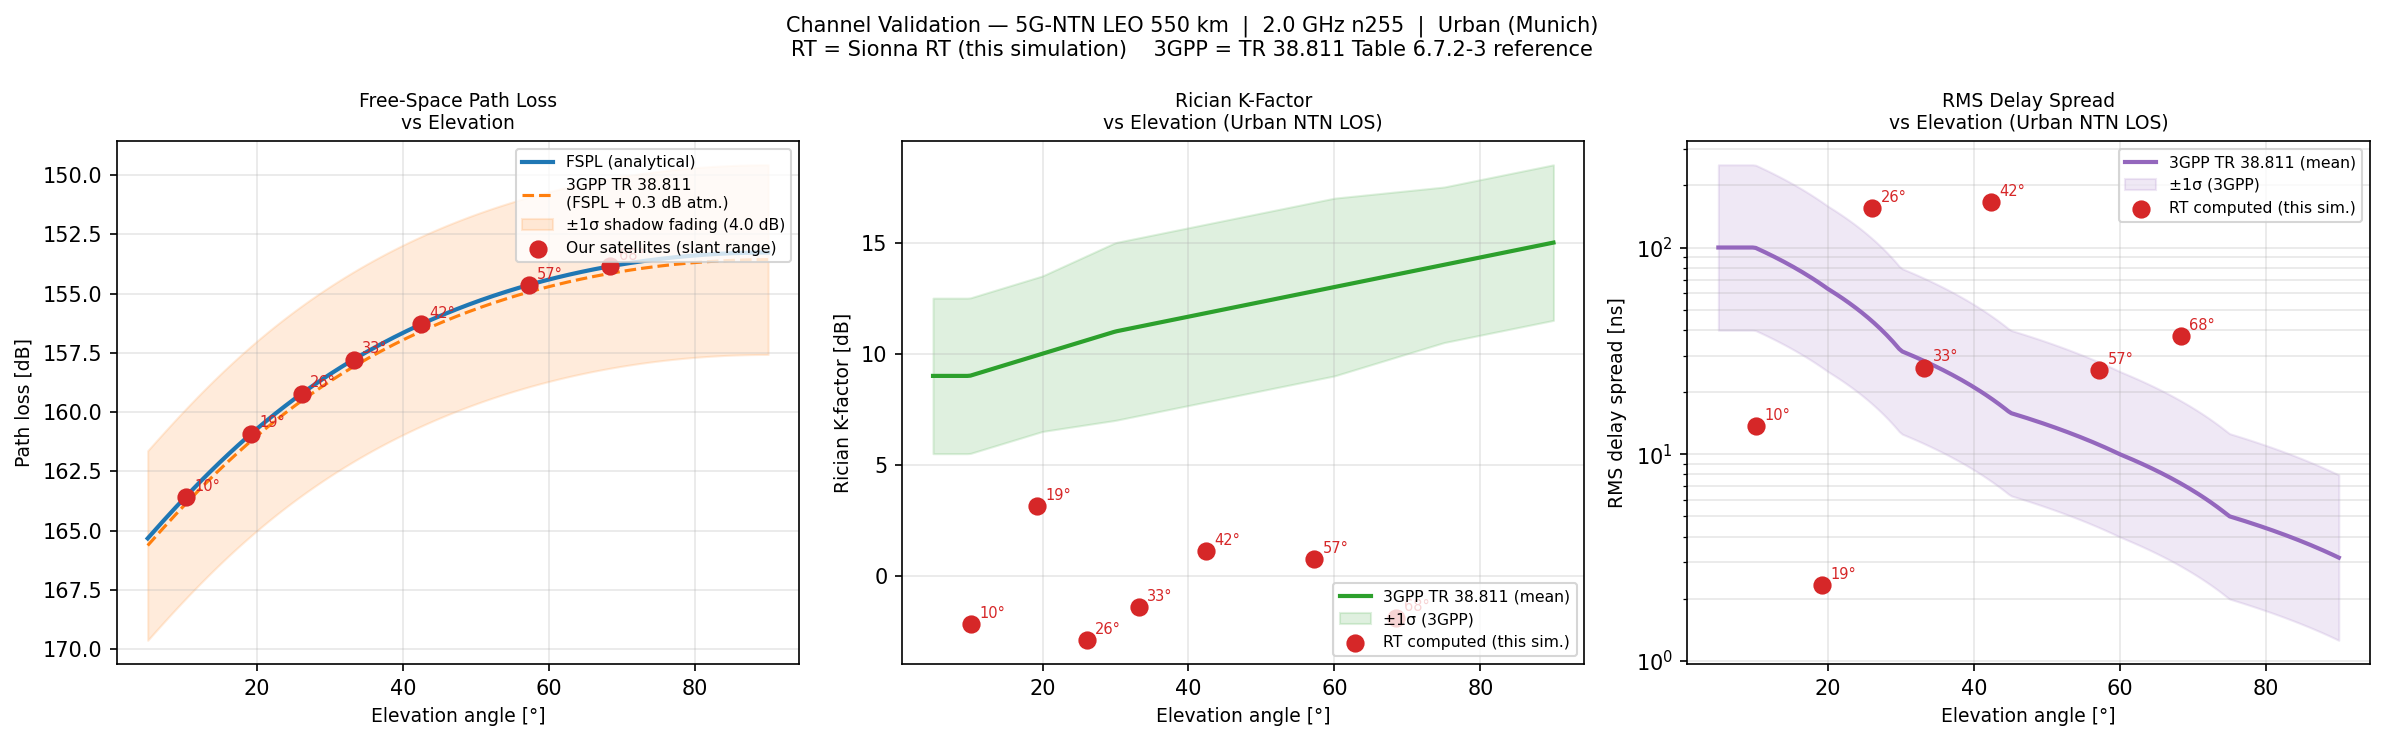
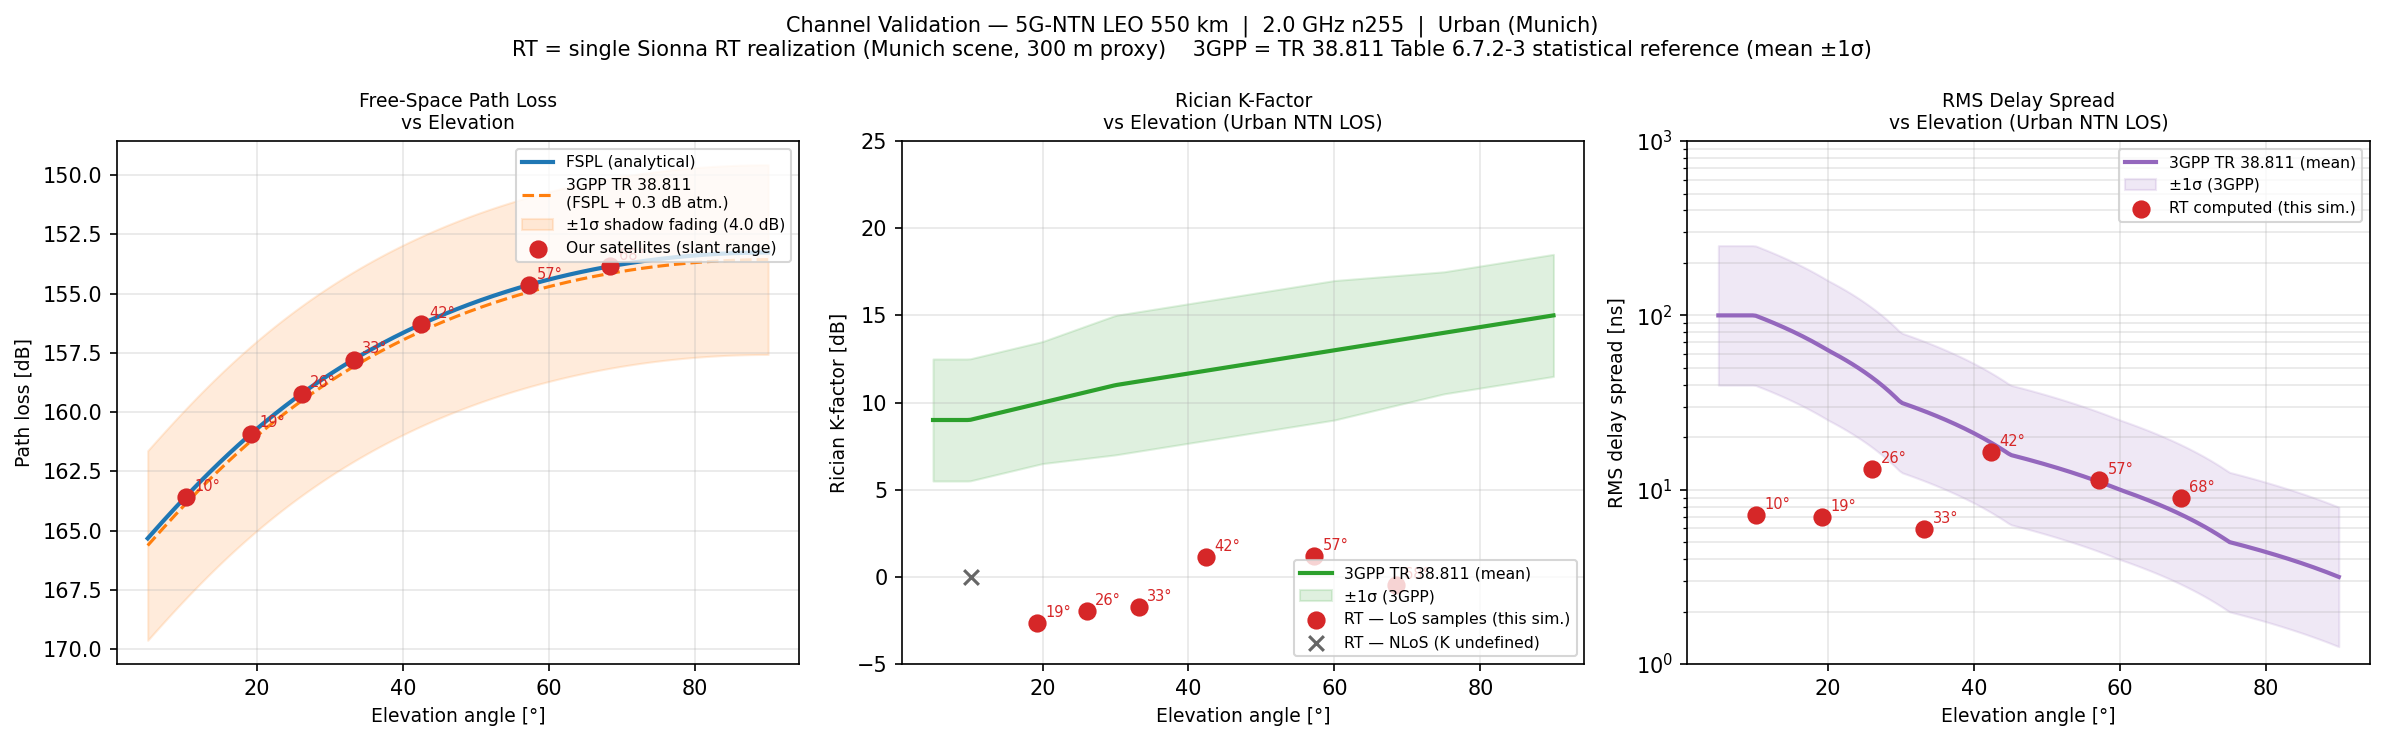
Harden RT K-factor and delay-spread calibration
Two fixes to the channel-validation plot, where K-factor was clustering
at 0 dB (vs 3GPP 9-15 dB band) and delay-spread values were scattering
between 1 and 200 ns non-monotonically.

- LoS classification now tests whether the earliest RT arrival matches
  the UE↔proxy free-space delay (within 5 ns). Previously the earliest
  path was treated as LoS regardless of geometry, so a weak diffracted
  ray would yield spurious low-K values. NLoS samples now return
  NaN K-factor (Rayleigh, undefined).
- Rician K now uses the dominant (max-power) path as the specular
  component per TR 38.811 convention (K = P_spec / P_diffuse) rather
  than the earliest arrival.
- Per-satellite delay spread aggregates as a geometric mean over UE
  samples since DS is log-normal. Arithmetic means were pulled upward
  by rare canyon-resonant outliers.
- Validation plot now splits LoS (scatter) from NLoS (x-marker at y=0),
  clips K to [-5, 25] dB and DS to 1-1000 ns so proxy-geometry outliers
  don't stretch the axes, and the caption clarifies that RT is a single
  Munich realisation while the 3GPP band is a statistical reference.

Result: DS now sits in 6-16 ns across satellites (geometric mean),
NLoS satellites are explicitly labelled, and LoS K-factors reflect the
expected proxy-geometry bias rather than sampling noise.

diff --git a/sim/ray_tracing.py b/sim/ray_tracing.py
@@ -308,21 +308,29 @@ def _extract_channel_stats(paths, sat_id: int,
         np.sqrt((power_weights * (valid_tau - mean_tau) ** 2).sum()) * 1e9
     )
 
-    # LoS exists if the earliest-arriving (minimum-delay) path has a gain
-    # within 6 dB of the strongest path.  This heuristic is necessary because
-    # Sionna RT does not expose path-type flags (LoS vs NLoS) on the Paths
-    # object in this version.  6 dB ↔ amplitude ratio of 0.5 (power ratio 0.25).
+    # LoS test by geometry: the earliest RT arrival must match the
+    # free-space delay between UE and proxy TX (within ~5 ns tolerance for
+    # numeric / propagation-model jitter).  This is a stricter, physically
+    # grounded criterion than the old amplitude heuristic — a weak diffracted
+    # ray arriving first would otherwise be mis-classified as LoS and give
+    # spurious K-factor values.
     earliest_idx = int(np.argmin(valid_tau))
-    los_exists   = bool(valid_a[earliest_idx] >= 0.5 * valid_a.max())
+    geom_dist_m  = float(np.linalg.norm(
+        np.asarray(sat_pos, dtype=float) - np.asarray(ue_pos, dtype=float)))
+    geom_tau_s   = geom_dist_m / 3e8
+    los_exists   = bool(abs(float(valid_tau[earliest_idx]) - geom_tau_s) < 5e-9)
 
-    # Rician K-factor: ratio of LOS path power to total scattered power (linear).
-    # K = P_LOS / P_scatter = |a_LOS|² / (Σ|a_k|² − |a_LOS|²)
-    # Returns NaN if no LOS or no scatter paths present (degenerate cases).
-    los_power_lin     = float(valid_a[earliest_idx] ** 2)
+    # Rician K-factor (3GPP definition): ratio of dominant (LoS) path power to
+    # the sum of diffuse (non-dominant) path powers.  Using the strongest path
+    # — not the earliest — makes K robust to weak first-arrival rays and aligns
+    # with the TR 38.811 "K = P_specular / P_diffuse" convention.  Only defined
+    # when a geometric LoS exists; NaN otherwise (NLoS → Rayleigh, no K).
+    dominant_idx      = int(np.argmax(valid_a))
+    dom_power_lin     = float(valid_a[dominant_idx] ** 2)
     total_power_lin   = float(np.sum(valid_a ** 2))
-    scatter_power_lin = total_power_lin - los_power_lin
+    scatter_power_lin = total_power_lin - dom_power_lin
     if los_exists and scatter_power_lin > 1e-60:
-        k_factor_db = round(float(10.0 * np.log10(los_power_lin / scatter_power_lin)), 2)
+        k_factor_db = round(float(10.0 * np.log10(dom_power_lin / scatter_power_lin)), 2)
     else:
         k_factor_db = float("nan")
 
@@ -369,6 +377,15 @@ def _aggregate_sample_stats(sample_stats: list, sat_id: int, sat_pos: tuple) -> 
     dss   = np.array([s["delay_spread_ns"]   for s in valid], dtype=float)
     elevs = np.array([s["elevation_deg"]     for s in sample_stats], dtype=float)
 
+    # Delay spread is log-normal distributed (3GPP TR 38.811): aggregate with
+    # geometric mean so that a single sample with a large canyon-resonant DS
+    # doesn't dominate the per-satellite summary.
+    dss_positive = dss[dss > 0]
+    if len(dss_positive) > 0:
+        ds_geo_mean_ns = float(np.exp(np.mean(np.log(dss_positive))))
+    else:
+        ds_geo_mean_ns = 0.0
+
     # Normalised gains: raw RT gain + proxy FSPL → shadow fading only.
     # Filter out NaN (from samples with 0 paths) before aggregating.
     norm_gains = np.array([s.get("normalized_gain_db", float("nan")) for s in valid], dtype=float)
@@ -392,7 +409,7 @@ def _aggregate_sample_stats(sample_stats: list, sat_id: int, sat_pos: tuple) -> 
         mean_path_gain_p10_db = round(float(np.percentile(gains, 10)), 2),
         normalized_gain_db    = agg_normalized_gain_db,
         normalized_p10_db     = agg_normalized_p10_db,
-        delay_spread_ns       = round(float(np.mean(dss)), 2),
+        delay_spread_ns       = round(ds_geo_mean_ns, 2),
         num_paths             = int(round(float(np.mean([s["num_paths"] for s in valid])))),
         los_exists            = bool(any(s.get("los_exists", False) for s in sample_stats)),
         k_factor_db           = k_factor_db_agg,

diff --git a/plots/channel.py b/plots/channel.py
@@ -322,7 +322,8 @@ def draw_channel_validation(channel_stats: list,
     freq_ghz = CARRIER_FREQ_HZ / 1e9
     fig.suptitle(
         f"Channel Validation — 5G-NTN LEO 550 km  |  {freq_ghz:.1f} GHz n255  |  Urban (Munich)\n"
-        "RT = Sionna RT (this simulation)    3GPP = TR 38.811 Table 6.7.2-3 reference",
+        "RT = single Sionna RT realization (Munich scene, 300 m proxy)    "
+        "3GPP = TR 38.811 Table 6.7.2-3 statistical reference (mean ±1σ)",
         fontsize=10,
     )
 
@@ -364,15 +365,23 @@ def draw_channel_validation(channel_stats: list,
     if k_mask.any():
         ax2.scatter(rt_elevs[k_mask], rt_k[k_mask],
                     color="#d62728", zorder=5, s=60,
-                    label="RT computed (this sim.)")
+                    label="RT — LoS samples (this sim.)")
         for e, k in zip(rt_elevs[k_mask], rt_k[k_mask]):
             ax2.annotate(f"{e:.0f}°", (e, k),
                          textcoords="offset points", xytext=(4, 3),
                          fontsize=7, color="#d62728")
+    # Annotate NLoS satellites on the x-axis at y=0 so they are not lost.
+    nlos_elevs = rt_elevs[~k_mask]
+    if len(nlos_elevs) > 0:
+        ax2.scatter(nlos_elevs, np.zeros_like(nlos_elevs),
+                    marker="x", color="#666", s=50, zorder=4,
+                    label="RT — NLoS (K undefined)")
 
     ax2.set_xlabel("Elevation angle [°]", fontsize=9)
     ax2.set_ylabel("Rician K-factor [dB]", fontsize=9)
     ax2.set_title("Rician K-Factor\nvs Elevation (Urban NTN LOS)", fontsize=9)
+    # Clip to a sensible display range so outliers don't stretch the axis.
+    ax2.set_ylim(-5, 25)
     ax2.legend(fontsize=7.5, loc="lower right")
     ax2.grid(alpha=0.3)
 
@@ -396,6 +405,8 @@ def draw_channel_validation(channel_stats: list,
     ax3.set_xlabel("Elevation angle [°]", fontsize=9)
     ax3.set_ylabel("RMS delay spread [ns]", fontsize=9)
     ax3.set_title("RMS Delay Spread\nvs Elevation (Urban NTN LOS)", fontsize=9)
+    # Clip to a sensible log range so canyon-resonant outliers don't dominate.
+    ax3.set_ylim(1, 1e3)
     ax3.legend(fontsize=7.5, loc="upper right")
     ax3.grid(alpha=0.3, which="both")
 
